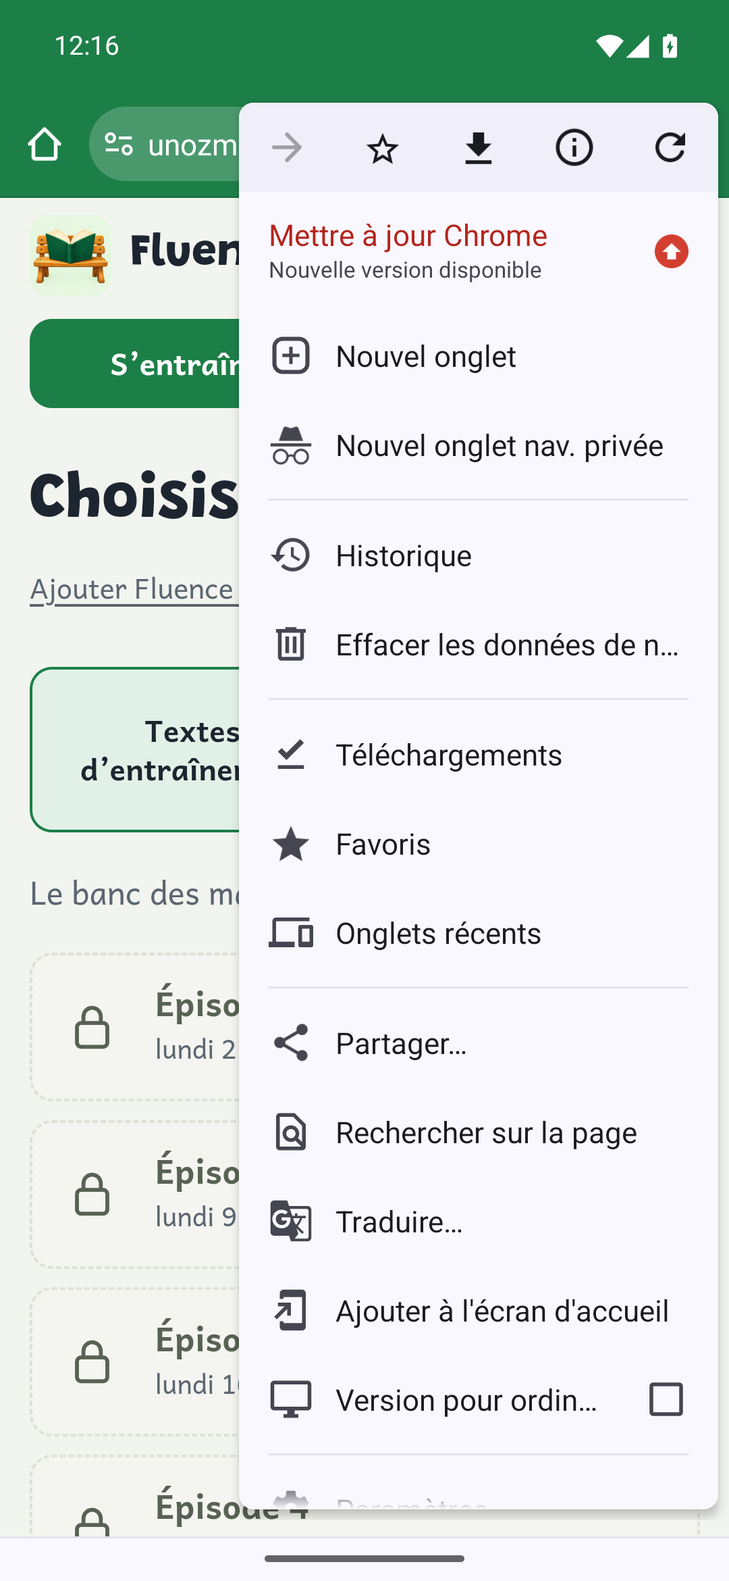
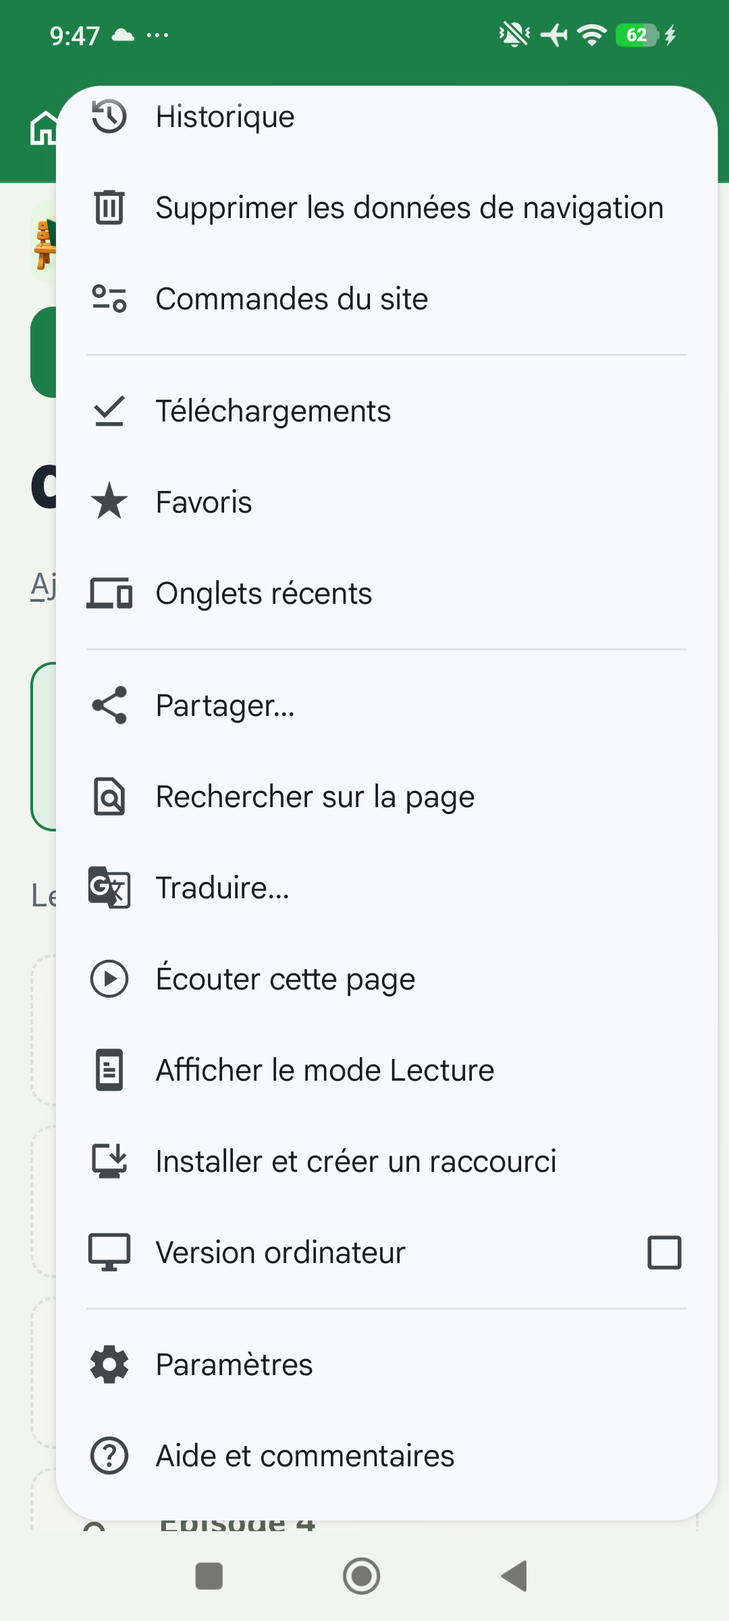
Mise à jour du Banc des maîtres

diff --git a/tests/installation-parents.js b/tests/installation-parents.js
@@ -2,13 +2,13 @@
 const {chromium,webkit}=require("playwright"),{site}=require("./serveurs"),fs=require("node:fs"),path=require("node:path"),{createHash}=require("node:crypto");
 const A="a".repeat(64),B="b".repeat(64),HASH_A=createHash("sha256").update(A).digest("hex"),HASH_B=createHash("sha256").update(B).digest("hex");
 const CLE="fluence-installation-parents-v1:";
-const UA={ios:"Mozilla/5.0 (iPhone; CPU iPhone OS 18_5 like Mac OS X) AppleWebKit/605.1.15 (KHTML, like Gecko) Version/18.5 Mobile/15E148 Safari/604.1",android:"Mozilla/5.0 (Linux; Android 15; Test Phone) AppleWebKit/537.36 (KHTML, like Gecko) Chrome/135.0.0.0 Mobile Safari/537.36"};
+const ACCES="fluence-parents-acces-v1";
+const UA={ios:"Mozilla/5.0 (iPhone; CPU iPhone OS 18_5 like Mac OS X) AppleWebKit/605.1.15 (KHTML, like Gecko) Version/18.5 Mobile/15E148 Safari/604.1",android:"Mozilla/5.0 (Linux; Android 16; Test Phone) AppleWebKit/537.36 (KHTML, like Gecko) Chrome/155.0.0.0 Mobile Safari/537.36"};
 const CAPT=process.env.FLUENCE_INSTALLATION_CAPTURES||"/private/tmp/fluence-installation-parents-qa";
 // Parcours officiels : support.apple.com/fr-fr/guide/iphone/iphea86e5236/ios
 // et support.google.com/chrome/answer/15085120?co=GENIE.Platform%3DAndroid&hl=fr.
-// Les captures Android proviennent de Chrome 124 : le menu porte encore
-// « Ajouter à l’écran d’accueil », puis le vrai dialogue « Créer un raccourci ».
-const ETAPES={ios:[/menu|plus|…/i,/Partager/i,/Sur l’écran d’accueil/i,/Ouvrir comme app web/i,/Ajouter/i],android:[/menu|trois points|⋮/i,/Ajouter à l’écran d’accueil/i,/Créer un raccourci.*Ajouter/i,/Add to home screen/i]};
+// Captures Android 16 / Chrome 155 : premier choix « Installer », puis sa confirmation.
+const ETAPES={ios:[/menu|plus|…/i,/Partager/i,/Sur l’écran d’accueil/i,/Ouvrir comme app web/i,/Ajouter/i],android:[/menu.*⋮.*Chrome/i,/Installer et créer un raccourci/i,/Choisissez.*Installer.*premier choix/i,/Confirmez.*Installer/i]};
 let nb=0;const vrai=(ok,message)=>{if(!ok)throw Error("ÉCHEC : "+message);nb++;console.log("  ✓ "+message);};
 function observeMinuteurs(){
   const actifs=new Map(),set=window.setTimeout.bind(window),clear=window.clearTimeout.bind(window);
@@ -20,10 +20,11 @@ function observeMinuteurs(){
   window.clearTimeout=id=>{actifs.delete(id);return clear(id);};
 }
 function prepare(options){
-  window.__installation={copies:[],lecturesPrivees:[],ecritures:[],sockets:0};
+  window.__installation={copies:[],lecturesPrivees:[],lecturesAcces:0,ecritures:[],sockets:0};
   const get=Storage.prototype.getItem,set=Storage.prototype.setItem;
-  Storage.prototype.getItem=function(k){if(String(k).startsWith("banc-db:")||k==="banc-des-maitres-liaison")__installation.lecturesPrivees.push(k);return get.call(this,k);};
-  Storage.prototype.setItem=function(k,v){__installation.ecritures.push([k,v]);if(options.stockageRefuse&&k.startsWith("fluence-installation-parents-v1:"))throw new DOMException("Quota fictif","QuotaExceededError");return set.call(this,k,v);};
+  for(const [k,v] of Object.entries(options.stockInitial||{}))if(get.call(localStorage,k)===null)set.call(localStorage,k,v);
+  Storage.prototype.getItem=function(k){if(String(k).startsWith("banc-db:")||k==="banc-des-maitres-liaison")__installation.lecturesPrivees.push(k);if(k==="fluence-parents-acces-v1"){__installation.lecturesAcces++;if(options.lectureAccesRefuse)throw new DOMException("Lecture fictive refusée","SecurityError");}return get.call(this,k);};
+  Storage.prototype.setItem=function(k,v){__installation.ecritures.push([k,v]);if(options.stockageRefuse&&k.startsWith("fluence-installation-parents-v1:")||options.stockageAccesRefuse&&k==="fluence-parents-acces-v1")throw new DOMException("Quota fictif","QuotaExceededError");return set.call(this,k,v);};
   Object.defineProperty(navigator,"clipboard",{configurable:true,value:{writeText:async texte=>{if(window.__copieRefusee)throw Error("Copie refusée");__installation.copies.push(texte);}}});
   if(options.standalone==="ios")Object.defineProperty(navigator,"standalone",{value:true,configurable:true});
   if(options.standalone==="css"){
@@ -39,13 +40,14 @@ function prepare(options){
  try{for(const [nom,moteur] of moteurs){
   const b=await moteur.launch();
   const dossier=path.join(CAPT,nom);fs.mkdirSync(dossier,{recursive:true});
-  async function ouvre({systeme="ios",width=390,hash="#parents&famille="+A+"&prenom=Test%20Installation",standalone="",natif=false,stockageRefuse=false,reducedMotion="no-preference",contexte}={}){
+  async function ouvre({systeme="ios",width=390,hash="#parents&famille="+A+"&prenom=Test%20Installation",standalone="",natif=false,stockageRefuse=false,stockageAccesRefuse=false,lectureAccesRefuse=false,stockInitial={},reducedMotion="no-preference",contexte}={}){
     const c=contexte||await b.newContext({viewport:{width,height:width===320?568:844},isMobile:systeme!=="desktop",hasTouch:systeme!=="desktop",...(UA[systeme]?{userAgent:UA[systeme]}:{}),colorScheme:"light",reducedMotion});
-    if(!contexte)await c.addInitScript(prepare,{standalone,natif,stockageRefuse});
+    if(!contexte)await c.addInitScript(prepare,{standalone,natif,stockageRefuse,stockageAccesRefuse,lectureAccesRefuse,stockInitial});
     const p=await c.newPage();p.setDefaultTimeout(12000);p.on("pageerror",e=>erreurs.push(nom+": "+e.message));
     p.on("request",r=>{if([r.url(),r.postData()||"",...Object.values(r.headers())].some(v=>v.includes(A)||v.includes(B)))fuites.push(true);});
     await p.route("**/*",r=>new URL(r.request().url()).origin===new URL(S.base).origin?r.continue():(externes.push(new URL(r.request().url()).origin),r.abort()));
-    await p.clock.install({time:new Date("2027-01-04T11:59:00Z")});await p.clock.pauseAt(new Date("2027-01-04T12:00:00Z"));
+    // L'horloge Playwright est partagée par les onglets du contexte.
+    if(!contexte){await p.clock.install({time:new Date("2027-01-04T11:59:00Z")});await p.clock.pauseAt(new Date("2027-01-04T12:00:00Z"));}
     await p.goto(S.base+hash);await p.waitForFunction(()=>!!window.Parents&&document.documentElement.dataset.role);
     await p.waitForSelector("#view h1");return p;
   }
@@ -108,7 +110,7 @@ function prepare(options){
       await p.click("#maison-installer");
       await p.locator(".maison-installation-ecrit summary").click();
       const texte=await p.locator("#maison-installation-etapes").innerText();
-      vrai(systeme==="ios"?/Partager/.test(texte)&&/Sur l’écran d’accueil/.test(texte)&&/Ouvrir comme app/.test(texte):/Installer et créer un raccourci/.test(texte)&&/Créer un raccourci/.test(texte)&&/ouvrir Chrome/.test(texte),`${systeme} : étapes adaptées et aucune fausse confirmation d’installation`);
+      vrai(systeme==="ios"?/Partager/.test(texte)&&/Sur l’écran d’accueil/.test(texte)&&/Ouvrir comme app/.test(texte):/Installer et créer un raccourci/.test(texte)&&/Installer l’application/.test(texte)&&/premier choix/.test(texte),`${systeme} : étapes adaptées et aucune fausse confirmation d’installation`);
       await p.locator(".maison-installation-ecrit summary").click();
       vrai(p.url()===initial&&await p.evaluate(()=>Banc.ROLE==="parents"&&__installation.lecturesPrivees.length===0&&__installation.sockets===0),"ouvrir le guide garde le lien personnel et n’accède pas à la classe");
       vrai(await p.locator("[data-animation-preview]").evaluate((e,token)=>{const r=e.getBoundingClientRect();return r.width>0&&r.left>=0&&r.right<=innerWidth+1&&!e.outerHTML.includes(token)&&!e.textContent.includes("Test Installation");},A),"le tutoriel tient dans l’écran et ne contient aucun prénom ni accès personnel");
@@ -127,7 +129,9 @@ function prepare(options){
       await taille(p,`${systeme} ${width} étapes`);await p.click("#maison-installation-continuer");
       vrai(await p.locator("#maison-installation").count()===0&&await p.locator("#maison-guide-installation").isVisible(),"continuer ferme l’accueil et laisse le guide retrouvable");
       const etat=await p.evaluate(()=>({ecritures:__installation.ecritures,stock:Object.fromEntries(Object.entries(localStorage))}));
-      vrai(etat.stock[CLE+HASH_A]==="vu"&&!JSON.stringify(etat).includes(A),"la préférence locale ne contient que l’empreinte et aucun secret familial");
+      const autres={stock:Object.fromEntries(Object.entries(etat.stock).filter(([k])=>k!==ACCES)),ecritures:etat.ecritures.filter(([k])=>k!==ACCES)};
+      vrai(etat.stock[CLE+HASH_A]==="vu"&&!JSON.stringify(autres).includes(A),"la préférence du guide ne contient que l’empreinte ; le secret Android reste dans le seul registre local des accès");
+      vrai(systeme==="android"?JSON.parse(etat.stock[ACCES]).acces[0].token===A:!(ACCES in etat.stock),systeme==="android"?"l’accès Android est conservé pour l’icône commune, sans changement du lien courant":"l’iPhone ne conserve aucun nouveau registre d’accès");
       await p.click("button[data-ep=E1]");await p.waitForSelector("#maison-depart");
       vrai(p.url()===initial&&await p.inputValue("#maison-prenom")==="Test Installation","la lecture reste accessible avec le bon enfant après le guide");
       await p.reload();await p.waitForSelector("button[data-ep=E1]");
@@ -136,7 +140,7 @@ function prepare(options){
       await p.keyboard.press("Escape");vrai(await p.locator("#maison-installation").count()===0&&await p.locator("#maison-guide-installation").evaluate(e=>e===document.activeElement),"le guide se rouvre, Échap le ferme et le focus revient au bouton");
       if(systeme==="android"&&width===390){
         const result=await p.evaluate(()=>{let demandes=0;const e=new Event("beforeinstallprompt",{cancelable:true});e.prompt=()=>{demandes++;};dispatchEvent(e);return {demandes,annule:e.defaultPrevented,manifest:document.querySelector('link[rel="manifest"]').getAttribute("href")};});
-        vrai(result.demandes===0&&!result.annule&&result.manifest==="manifest.webmanifest","le guide n’invoque pas WebAPK et ne remplace pas le manifest par un accès privé");
+        vrai(result.demandes===0&&!result.annule&&result.manifest==="parents.webmanifest","le guide laisse l’installation au menu de Chrome avec le manifest parents public");
         const autre=await ouvre({contexte:p.context(),systeme,width,hash:"#parents&famille="+B+"&prenom=Test%20Autre"});await autre.waitForSelector("#maison-installation[open]");await autre.click("#maison-installation-continuer");
         vrai(await autre.evaluate(({cle,hashA,hashB})=>localStorage.getItem(cle+hashA)==="vu"&&localStorage.getItem(cle+hashB)==="vu",{cle:CLE,hashA:HASH_A,hashB:HASH_B}),"deux liens familiaux gardent chacun leur préférence sans réaffecter l’icône à un dernier enfant");
         await p.click("#maison-guide-installation");await p.evaluate(token=>{location.hash="parents&famille="+token+"&prenom=Test%20Autre";},B);await p.waitForFunction(token=>location.hash.includes(token)&&document.querySelector("button[data-ep=E1]")&&!document.querySelector("#maison-installation"),B);
@@ -173,6 +177,78 @@ function prepare(options){
       }
       await p.click("#maison-installation-continuer");await p.context().close();
     }
+    // L'icône Android démarre sur une adresse commune ; aucun enfant « récent »
+    // implicite. Le registre ne contient que des accès reçus sur cet appareil.
+    const registre=acces=>JSON.stringify({version:1,acces});
+    const persoA={token:A,prenom:"Test Installation"},persoB={token:B,prenom:"Test Autre"};
+    const historique=JSON.stringify({version:1,prenom:"Ancien profil",vitesse:0.8,historique:[],profils:{[HASH_A]:{prenom:"Test Installation",vitesse:0.6},[HASH_B]:{prenom:"Test Autre",vitesse:1}}});
+    const direct=await ouvre({systeme:"android",stockInitial:{"fluence-parents-v1":historique}});
+    vrai(await direct.evaluate(cle=>JSON.parse(localStorage.getItem(cle)).acces.length===1,ACCES),"un accès Android valide est mémorisé dès ouverture, avant tout clic sur le guide");
+    const lancement=await ouvre({systeme:"android",standalone:"css",contexte:direct.context(),hash:"#parents&app=1"});
+    vrai(new URL(lancement.url()).hash.includes(A)&&await lancement.evaluate(()=>Banc.ROLE==="parents"&&__installation.lecturesPrivees.length===0&&__installation.sockets===0),"le lancement app=1 restaure l’unique accès avant le rôle et sans lire la classe");
+    vrai(await lancement.locator("#maison-choix-acces").count()===0&&await lancement.evaluate(()=>MaisonCloud.parentActif()),"l’accès restauré retrouve les fonctions privées de son enfant");
+    if(await lancement.locator("#maison-installation").count())await lancement.click("#maison-installation-continuer");
+    await lancement.click("button[data-ep=E1]");
+    vrai(await lancement.inputValue("#maison-prenom")==="Test Installation"&&await lancement.evaluate(texte=>localStorage.getItem("fluence-parents-v1")===texte,historique),"la restauration conserve le prénom et les profils déjà enregistrés sans réécrire les résultats");
+    await lancement.reload();await lancement.waitForSelector("button[data-ep=E1]");
+    vrai(new URL(lancement.url()).hash.includes(A),"le même accès reste associé après rechargement");
+    await direct.context().close();
+
+    const plusieurs=await ouvre({systeme:"android",hash:"#parents&app=1",stockInitial:{[ACCES]:registre([persoA,persoB]),"fluence-parents-v1":historique}});
+    vrai(await plusieurs.locator("#maison-choix-acces").isVisible()&&await plusieurs.locator("[data-acces-choix]").count()===2&&!new URL(plusieurs.url()).hash.includes(A),"plusieurs accès imposent un choix explicite, sans restaurer le dernier enfant");
+    vrai(await plusieurs.evaluate(()=>!MaisonCloud.parentActif()&&__installation.lecturesPrivees.length===0&&__installation.sockets===0)&&await plusieurs.locator("#maison-choix-acces").evaluate(e=>!/[a-f0-9]{64}/.test(e.outerHTML)),"le sélecteur reste sans connexion de classe et n’insère aucun secret dans le DOM");
+    await plusieurs.click('[data-acces-choix="1"]');await plusieurs.waitForSelector("button[data-ep=E1]");
+    if(await plusieurs.locator("#maison-installation").count())await plusieurs.click("#maison-installation-continuer");
+    await plusieurs.click("button[data-ep=E1]");
+    vrai(new URL(plusieurs.url()).hash.includes(B)&&await plusieurs.inputValue("#maison-prenom")==="Test Autre","le choix du second enfant ouvre son lien et son propre prénom");
+    vrai(await plusieurs.evaluate(texte=>localStorage.getItem("fluence-parents-v1")===texte,historique),"le choix d’un enfant conserve les profils des autres enfants");
+    const nouveauLancement=await ouvre({systeme:"android",contexte:plusieurs.context(),hash:"#parents&app=1"});
+    vrai(await nouveauLancement.locator("[data-acces-choix]").count()===2,"le lancement suivant redemande le choix au lieu de mémoriser un dernier enfant");
+    await nouveauLancement.evaluate(t=>location.hash="parents&famille="+t+"&prenom=Test%20Installation",A);await nouveauLancement.waitForSelector("button[data-ep=E1]");
+    vrai(await nouveauLancement.locator("#maison-choix-acces").count()===0&&new URL(nouveauLancement.url()).hash.includes(A),"un nouveau lien reçu dans le sélecteur recharge le bon contexte familial");
+    await plusieurs.context().close();
+
+    for(const [nom,hash] of [
+      ["secret invalide","#parents&app=1&famille=invalide"],
+      ["deux secrets","#parents&app=1&famille="+A+"&famille="+B],
+      ["deux marqueurs parents","#parents&parents&app=1"],
+      ["deux marqueurs app","#parents&app=1&app=1"],
+      ["valeur app invalide","#parents&app=2"],
+      ["prénom ajouté au lanceur","#parents&app=1&prenom=Autre"]
+    ]){
+      const p=await ouvre({systeme:"android",hash,stockInitial:{[ACCES]:registre([persoA])}});
+      vrai(await p.locator("#maison-choix-acces").isVisible()&&await p.locator("[data-acces-choix]").count()===0&&!await p.evaluate(()=>MaisonCloud.parentActif()),nom+" : aucun accès mémorisé de remplacement");
+      vrai(await p.locator('link[rel="manifest"]').getAttribute("href")==="parents.webmanifest",nom+" : le manifest reste public même si le lien est malformé");
+      await p.context().close();
+    }
+    for(const [nom,stock,refuse] of [
+      ["aucun accès",null,false],
+      ["registre corrompu","{corrompu",false],
+      ["registre ambigu",registre([persoA,persoA]),false],
+      ["lecture du stockage refusée",registre([persoA]),true]
+    ]){
+      const p=await ouvre({systeme:"android",hash:"#parents&app=1",lectureAccesRefuse:refuse,stockInitial:{...(stock===null?{}:{[ACCES]:stock}),"fluence-parents-v1":historique}});
+      vrai(await p.locator("#maison-choix-info").innerText().then(t=>t.includes("QR code"))&&!await p.evaluate(()=>MaisonCloud.parentActif()),nom+" : aide pour rouvrir le QR, aucune association choisie au hasard");
+      vrai(await p.evaluate(t=>localStorage.getItem("fluence-parents-v1")===t,historique),nom+" : les anciennes lectures sont préservées");
+      await p.context().close();
+    }
+    const sansStockage=await ouvre({systeme:"android",stockageAccesRefuse:true,stockInitial:{"fluence-parents-v1":historique}});
+    await sansStockage.click("#maison-installer");
+    vrai(await sansStockage.locator("#maison-installation-acces").innerText().then(t=>t.includes("ne peut pas être conservé")&&t.includes("QR code")),"l’échec de mémorisation est visible dans le guide, sans faux succès");
+    await sansStockage.click("#maison-installation-continuer");await sansStockage.click("button[data-ep=E1]");
+    vrai(await sansStockage.inputValue("#maison-prenom")==="Test Installation"&&await sansStockage.evaluate(t=>localStorage.getItem("fluence-parents-v1")===t,historique),"le lien courant reste utilisable et les lectures existantes restent intactes malgré un refus de stockage");
+    await sansStockage.context().close();
+    for(const cas of [
+      {nom:"iPhone",systeme:"ios",hash:"#parents&app=1"},
+      {nom:"native Android",systeme:"android",natif:true,hash:"#parents&app=1"},
+      {nom:"espace enseignante Android",systeme:"android",hash:"#ecran&relais=local"},
+      {nom:"lien parents générique Android",systeme:"android",hash:"#parents"}
+    ]){
+      const p=await ouvre({...cas,stockInitial:{[ACCES]:registre([persoA])}});
+      vrai(!new URL(p.url()).hash.includes(A)&&await p.evaluate(()=>__installation.lecturesAcces===0&&__installation.ecritures.every(([k])=>k!=="fluence-parents-acces-v1")),cas.nom+" : aucun registre familial relu ou modifié, aucune restauration implicite");
+      if(cas.systeme!=="android"||cas.natif||!cas.hash.startsWith("#parents"))vrai(await p.locator('link[rel="manifest"]').getAttribute("href")==="manifest.webmanifest",cas.nom+" : manifest existant conservé");
+      await p.context().close();
+    }
     for(const cas of [
       {nom:"ordinateur",systeme:"desktop",width:1366},{nom:"ordinateur étroit",systeme:"desktop",width:320},
       {nom:"app iPhone déjà ajoutée",standalone:"ios"},{nom:"app Android déjà ajoutée",systeme:"android",standalone:"css"},
@@ -191,5 +267,8 @@ function prepare(options){
  vrai(fuites.length===0,"aucun accès familial dans les URL réseau, en-têtes ou corps des requêtes");
  const manifest=JSON.parse(fs.readFileSync(path.join(__dirname,"../www/manifest.webmanifest"),"utf8"));
  vrai(!("start_url" in manifest)&&!("id" in manifest),"le manifest public reste inchangé, sans adresse familiale ni identifiant individuel");
+ const parentsManifest=JSON.parse(fs.readFileSync(path.join(__dirname,"../www/parents.webmanifest"),"utf8"));
+ vrai(parentsManifest.start_url==="./#parents&app=1"&&parentsManifest.scope==="./"&&parentsManifest.id==="./parents-app"&&parentsManifest.name==="Fluence","le manifest Android parents définit une identité et un lancement publics fixes");
+ vrai(!JSON.stringify(parentsManifest).includes(A)&&!JSON.stringify(parentsManifest).includes(B)&&!JSON.stringify(parentsManifest).includes("famille")&&!JSON.stringify(parentsManifest).includes("prenom"),"les métadonnées transmises à WebAPK ne contiennent ni secret familial ni prénom");
  console.log(`\n${nb} contrôles du guide d’installation parents réussis. Captures : ${CAPT}`);
 })().catch(e=>{console.error(e.message);process.exitCode=1;});

diff --git a/src/parents-acces.js b/src/parents-acces.js
@@ -1,0 +1,111 @@
+/* Accès conservés sur Android : aucun secret dans le manifest envoyé à WebAPK.
+   Ce module précède Plateforme, qui fixe le rôle dès son chargement. */
+"use strict";
+const ParentsAcces = (() => {
+  const CLE="fluence-parents-acces-v1", MAX=20;
+  const QR="Rouvrez le QR code ou le lien personnel transmis par l’enseignante.";
+  const natif=()=>{try{return !!window.Capacitor?.isNativePlatform?.();}catch(e){return true;}};
+  const android=()=>/Android/i.test(navigator.userAgent)&&["https:","http:"].includes(location.protocol)&&!natif();
+  const parametres=()=>new URLSearchParams(location.hash.slice(1));
+  const parent=p=>p.getAll("parents").length===1&&p.get("parents")==="";
+  const prenom=v=>{
+    if(typeof v!=="string")throw Error();
+    const s=v.normalize("NFC").trim().replace(/\s+/g," ");
+    if(s.length>80||/[<>\x00-\x1f\x7f]/.test(s))throw Error();
+    return s;
+  };
+  function lien(p=parametres()){
+    if(!parent(p)||p.getAll("famille").length!==1||!/^[a-f0-9]{64}$/.test(p.get("famille")||"")||p.getAll("prenom").length>1||["tel","ecran","bilan","access_token","refresh_token"].some(k=>p.has(k)))return null;
+    try{return {token:p.get("famille"),prenom:prenom(p.get("prenom")||"")};}catch(e){return null;}
+  }
+  function lit(){
+    const texte=localStorage.getItem(CLE);if(texte===null)return [];
+    if(texte.length>16000)throw Error();
+    const d=JSON.parse(texte);
+    if(!d||d.version!==1||!Array.isArray(d.acces)||d.acces.length>MAX)throw Error();
+    const vus=new Set();
+    return d.acces.map(a=>{
+      if(!a||typeof a!=="object"||Array.isArray(a)||Object.keys(a).some(k=>!["token","prenom"].includes(k))||typeof a.token!=="string"||!/^[a-f0-9]{64}$/.test(a.token)||vus.has(a.token))throw Error();
+      vus.add(a.token);return {token:a.token,prenom:prenom(a.prenom)};
+    });
+  }
+  function fragment(a){
+    const p=new URLSearchParams();p.set("parents","");p.set("famille",a.token);
+    if(a.prenom)p.set("prenom",a.prenom);
+    return "#"+p.toString();
+  }
+  function restaure(a){history.replaceState(null,"",location.pathname+location.search+fragment(a));}
+  function memorise(){
+    if(!android())return {ok:false,message:""};
+    const a=lien();
+    if(!a)return {ok:false,message:"Ce lien personnel est incomplet. "+QR};
+    try{
+      const acces=lit(),i=acces.findIndex(x=>x.token===a.token);
+      if(i<0){if(acces.length>=MAX)throw Error();acces.push(a);}else acces[i]=a;
+      const texte=JSON.stringify({version:1,acces});
+      localStorage.setItem(CLE,texte);
+      if(localStorage.getItem(CLE)!==texte)throw Error();
+      return {ok:true,message:"Cet accès est conservé sur ce téléphone."};
+    }catch(e){return {ok:false,message:"Cet accès ne peut pas être conservé sur ce téléphone. "+QR+" Cela ne modifie pas les lectures déjà enregistrées."};}
+  }
+
+  let choix=null;
+  if(android()){
+    const p=parametres();
+    // Le manifest public est commun à toutes les familles, même si le lien reçu
+    // contient un prénom ou un secret. Le manifest iPhone/enseignante reste intact.
+    if(/[#&]parents\b/.test(location.hash)){
+      const manifest=document.querySelector('link[rel="manifest"]');
+      if(manifest)manifest.setAttribute("href","parents.webmanifest");
+    }
+    const personnel=lien(p);
+    if(personnel)memorise();
+    if(/[#&]parents\b/.test(location.hash)&&p.has("app")&&!personnel){
+      const lancement=parent(p)&&p.getAll("app").length===1&&p.get("app")==="1"&&[...p.keys()].length===2;
+      if(!lancement)choix={acces:[],erreur:"L’adresse d’ouverture est incomplète. "+QR};
+      else{
+        try{
+          const acces=lit();
+          if(acces.length===1)restaure(acces[0]);
+          else choix={acces,erreur:acces.length?"":QR};
+        }catch(e){choix={acces:[],erreur:"Les accès de ce téléphone ne peuvent pas être relus. "+QR};}
+      }
+    }
+  }
+  function afficheChoix(view){
+    if(!choix||!android()||!/[#&]parents\b/.test(location.hash)||!view)return false;
+    document.getElementById("app-tel").hidden=true;
+    const app=document.getElementById("app-ecran");app.hidden=false;
+    app.querySelector(".bar").hidden=true;
+    document.title="Fluence à la maison";
+    const section=document.createElement("section");section.className="card";section.id="maison-choix-acces";
+    const titre=document.createElement("h1");titre.tabIndex=-1;
+    titre.textContent=choix.acces.length?"Quel enfant ouvre Fluence ?":"Ouvrir l’accès de votre enfant";
+    section.appendChild(titre);
+    const aide=document.createElement("p");aide.id="maison-choix-info";aide.setAttribute("role","status");
+    aide.textContent=choix.erreur||"Choisissez l’enfant pour retrouver ses textes et ses progrès.";
+    section.appendChild(aide);
+    choix.acces.forEach((a,i)=>{
+      const bouton=document.createElement("button");bouton.type="button";bouton.className="btn primary";
+      bouton.dataset.accesChoix=String(i);bouton.textContent=a.prenom||"Accès "+(i+1);
+      bouton.style.cssText="display:flex;width:100%;margin-top:12px";
+      bouton.onclick=()=>{
+        // Un autre onglet peut avoir modifié le stockage depuis l'ouverture.
+        try{
+          const courant=lit().find(x=>x.token===a.token);
+          if(!courant)throw Error();
+          restaure(courant);location.reload();
+        }catch(e){aide.textContent="Cet accès ne peut pas être rouvert. "+QR;}
+      };
+      section.appendChild(bouton);
+    });
+    const note=document.createElement("p");note.className="muted";
+    note.textContent="Les lectures déjà enregistrées sur ce téléphone sont conservées.";
+    section.appendChild(note);view.replaceChildren(section);titre.focus({preventScroll:true});
+    // Un nouveau QR/lien peut arriver dans cette même fenêtre, avant Parents.
+    window.addEventListener("hashchange",()=>location.reload(),{once:true});
+    return true;
+  }
+  return {memorise,afficheChoix};
+})();
+window.ParentsAcces=ParentsAcces;

diff --git a/src/parents-installation.js b/src/parents-installation.js
@@ -40,6 +40,7 @@ const ParentsInstallation = (() => {
         <div id="maison-installation-animation"></div>
         <details class="maison-installation-ecrit"><summary>Voir les étapes écrites</summary><ol></ol></details>
         <p class="muted" id="maison-installation-aide"></p>
+        <p id="maison-installation-acces" role="status" hidden></p>
         <button class="btn" type="button" id="maison-installation-copier">Copier mon lien personnel</button>
         <p id="maison-installation-message" role="status"></p>
       </section>
@@ -55,14 +56,18 @@ const ParentsInstallation = (() => {
       "Faites défiler le menu, puis touchez « Sur l’écran d’accueil ».",
       "Vérifiez que « Ouvrir comme app web » est activé si cette option apparaît, puis touchez « Ajouter »."
     ]:[
-      "Ouvrez le menu de Chrome (les trois points).",
-      "Choisissez « Ajouter à l’écran d’accueil ». Si Chrome propose « Installer et créer un raccourci », choisissez ensuite « Créer un raccourci ».",
-      "Touchez « Ajouter », puis confirmez l’ajout à l’écran d’accueil (parfois « Add to home screen »). Gardez l’adresse personnelle de cette page."
+      "Ouvrez le menu ⋮ de Chrome, en haut à droite.",
+      "Faites défiler jusqu’à « Installer et créer un raccourci », puis choisissez « Installer » (le premier choix).",
+      "Dans « Installer l’application », confirmez « Installer »."
     ];
     instructions.forEach(texte=>{const li=document.createElement("li");li.textContent=texte;liste.appendChild(li);});
-    aide.textContent=apple?"":"Les libellés varient selon Chrome. Depuis une messagerie, ouvrez ce même lien dans Chrome. Le raccourci peut ouvrir Chrome.";
+    aide.textContent=apple?"":"Les libellés varient selon Chrome. Depuis une messagerie, ouvrez ce même lien dans Chrome.";
     aide.hidden=apple;
     const montreEtapes=()=>{
+      if(!apple&&!Plateforme.NATIF){
+        const acces=window.ParentsAcces?.memorise?.(),info=d.querySelector("#maison-installation-acces");
+        info.textContent=acces?.message||"";info.hidden=!info.textContent;
+      }
       etapes.hidden=false;d.classList.add("maison-installation-guide");d.setAttribute("aria-labelledby","maison-installation-mode");d.querySelector("#maison-installer").hidden=true;
       if(!arreteAnimation)arreteAnimation=window.InstallationAnimation?.monte(d.querySelector("#maison-installation-animation"),{systeme:apple?"ios":"android"})||null;
       titre.focus({preventScroll:true});d.scrollTop=0;

diff --git a/src/installation-animation.js b/src/installation-animation.js
@@ -12,16 +12,16 @@ const InstallationAnimation = (() => {
       {src:"img/installation-ios-5.png",legende:"Touchez Ajouter.",x:85,y:10.9}
     ],
     android:[
-      {src:"img/installation-android-1.png",legende:"Ouvrez le menu de Chrome (⋮).",x:93.89,y:9.15},
-      {src:"img/installation-android-2.png",legende:"Touchez Ajouter à l’écran d’accueil.",x:68.52,y:82.91},
-      {src:"img/installation-android-3.png",legende:"Dans Créer un raccourci, touchez Ajouter.",x:82.04,y:60.60},
-      {src:"img/installation-android-4.png",legende:"Touchez « Add to home screen » (Ajouter à l’écran d’accueil).",x:77.04,y:93.59}
+      {src:"img/installation-android-1.png",legende:"Ouvrez le menu ⋮ de Chrome, en haut à droite.",x:93.7,y:7.85},
+      {src:"img/installation-android-2.png",legende:"Faites défiler le menu, puis touchez « Installer et créer un raccourci ».",x:90,y:71.7},
+      {src:"img/installation-android-3.png",legende:"Choisissez « Installer », le premier choix.",x:85.7,y:79.5},
+      {src:"img/installation-android-4.png",legende:"Confirmez en touchant « Installer ».",x:81.9,y:60.45}
     ]
   };
   function monte(hote,{systeme="ios"}={}){
     systeme=systeme==="android"?"android":"ios";
     const captures=etapes[systeme],reduction=window.matchMedia?.("(prefers-reduced-motion: reduce)");
-    const [largeur,hauteur]=systeme==="ios"?[1320,2868]:[1080,2340];
+    const [largeur,hauteur]=systeme==="ios"?[1320,2868]:[1080,2400];
     let etape=0,timer=null,vivant=true,imageCourante=null,joue=!reduction?.matches&&!document.hidden;
     const box=document.createElement("div");box.className="installation-animation";box.dataset.installationAnimation=systeme;box.dataset.frameCount=captures.length;
     box.innerHTML=`<figure class="animation-apercu" data-animation-preview>

diff --git a/src/commun.js b/src/commun.js
@@ -582,7 +582,7 @@ const Banc = (() => {
 
   async function demarre(){
     window.addEventListener("afterprint",()=>{delete document.documentElement.dataset.impression;});
-    if (ROLE==="parents"){ await MaisonCloud.init(); await Parents.demarre(); return; }
+    if (ROLE==="parents"){ await Parents.demarre(); return; }
     await Donnees.init();
     if (ROLE==="tel"){ document.getElementById("app-tel").hidden = false; await Telephone.demarre(); }
     else { document.getElementById("app-ecran").hidden = false; await Ecran.demarre(); }

diff --git a/src/parents.js b/src/parents.js
@@ -304,6 +304,7 @@ const Parents = (() => {
   function imprime(E){Banc.imprimeTexte(E);}
   async function demarre(){
     if (Banc.ROLE !== "parents") return;
+    if(window.ParentsAcces?.afficheChoix($("#view")))return;
     charge();
     tokenSession=tokenLien();contexte="";apercu=false;
     if(tokenSession){

diff --git a/outils/build.py b/outils/build.py
@@ -62,7 +62,7 @@ def donnees():
 
 
 POLICES = [("Andika", "400", "normal", "andika-400-normal"), ("Andika", "700", "normal", "andika-700-normal"), ("Grandstander", "100 900", "normal", "grandstander")]
-SCRIPTS = ["maison-cloud-config.js", "plateforme.js", "commun.js", "ecran.js", "telephone.js", "parents-progres.js", "installation-animation.js", "parents-installation.js", "parents.js", "envoi-maison.js", "maison-cloud.js"]
+SCRIPTS = ["maison-cloud-config.js", "parents-acces.js", "plateforme.js", "commun.js", "ecran.js", "telephone.js", "parents-progres.js", "installation-animation.js", "parents-installation.js", "parents.js", "envoi-maison.js", "maison-cloud.js"]
 VENDOR = ["nostr-lite.js", "mqtt.min.js", "qrcode.js"]
 
 
@@ -127,6 +127,11 @@ def main():
         "background_color": "#F2F4EF", "theme_color": "#1D7F48",
         "icons": [{"src": "icones/icone-192.png", "sizes": "192x192", "type": "image/png"}, {"src": "icones/icone-512.png", "sizes": "512x512", "type": "image/png"},
                   {"src": "icones/icone-512.png", "sizes": "512x512", "type": "image/png", "purpose": "maskable"}]}, ensure_ascii=False, indent=1), encoding="utf-8")
+    # Une seule identité publique pour toutes les familles Android. L'accès
+    # personnel reste dans le stockage du téléphone, jamais dans le WebAPK.
+    parents = json.loads((W / "manifest.webmanifest").read_text(encoding="utf-8"))
+    parents.update(id="./parents-app", start_url="./#parents&app=1", scope="./")
+    (W / "parents.webmanifest").write_text(json.dumps(parents, ensure_ascii=False, indent=1), encoding="utf-8")
     (W / ".nojekyll").write_text("")
     for l in rapport: print(l)
     taille = sum(f.stat().st_size for f in W.rglob("*") if f.is_file())
